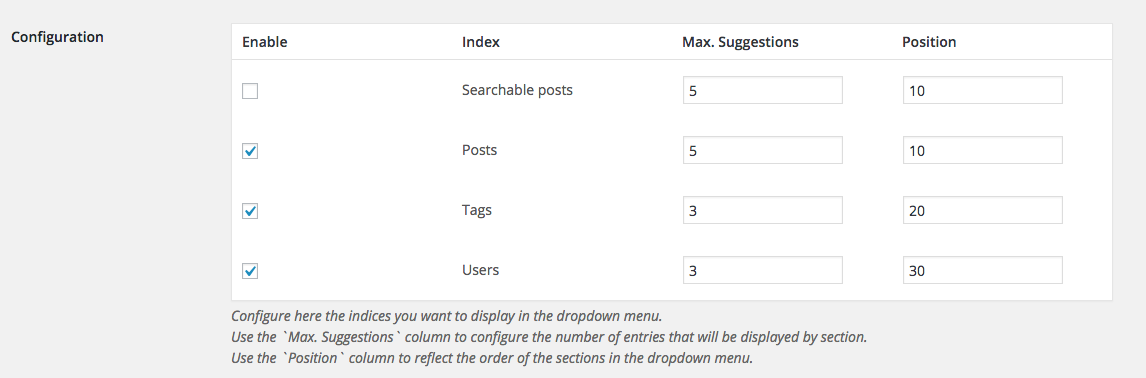
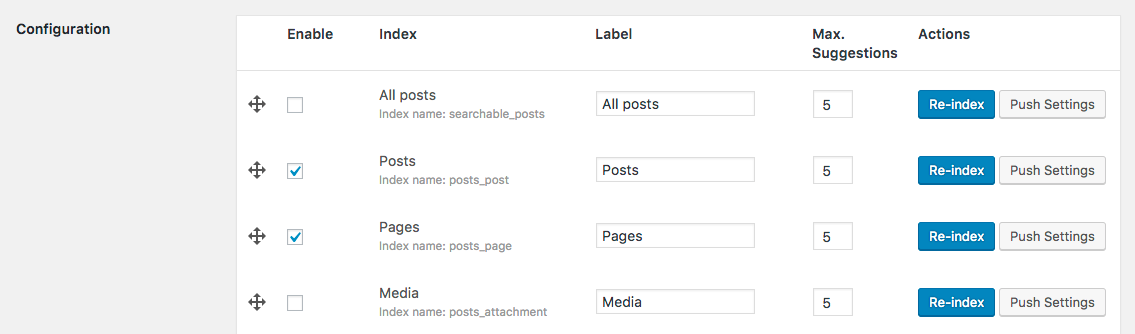
docs(getting-started): continued refactoring

diff --git a/docs/src/configuration.md b/docs/src/configuration.md
@@ -28,28 +28,26 @@ From that screen you will be able to copy/paste the following necessary keys fro
 
 Once you have filled in the 3 required keys, click on the <span class="wp-btn">Save Changes</span> button at the bottom of the form.
 
-If you provided the correct keys, a green success message will appear, otherwise you will get an error message. If you do get an error message, please ensure that you have correctly copy pasted the right key in the right WordPress admin field. Also be sure to use the copy button as showed earlier.
+Once you have correctly provided WordPress with your Algolia keys you will now see the Algolia Search menu entry has also expanded:
 
-<div class="alert alert-warning">For security reasons, the Search-Only API key should only have the `search` ACL has it will be display publicly in your html templates.</div>
-
-Once you have correctly provided WordPress with your Algolia keys you will now see that the Algolia Search menu entry has now expanded:
-
+<p class="text-center">
 ![expanded menu](img/configuration/menu-expanded.png)
+</p>
 
 
-## Autocomplete dropdown menu
+## Indexing
 
+Before you can search anything with Algolia, you need to synchronize your data.
 
+Now, let's head to the `Autocomplete` submenu where you will be able to tell WordPress what content you want to synchronize with Algolia.
 
-Now, lets head to the `Autocomplete` entry where you will be able to tell WordPress which indices you want to synchronize with Algolia.
-
-You should now be facing a list of checkboxes like:
+You should now be facing a list of elements like:
 
 ![indices form](img/configuration/indices-form.png)
 
 <div class="alert alert-warning">Please note that if you have already installed third party plugins to your WordPress installation, you might have more entries than in the above screenshot which is perfectly fine.</div>
 
-The Algolia Search plugin uses WordPress core features such as **Post Types**, **Taxonomies** or **Users** to find potential content types to index. Any plugin creating new *Post Types* or *Taxonomies* will automatically be listed here an eligible for synchronization with Algolia.
+The Algolia Search plugin uses WordPress core features such as **Custom Post Types**, **Custom Taxonomies** or **Users** to find potential content types to index. Any plugin creating new *Post Types* or *Taxonomies* will automatically be listed here an eligible for synchronization with Algolia.
 
 Let's proceed by choosing the indices you want to make searchable on your website, for example **Posts**, **Pages** and **Users**. Simply check the corresponding checkboxes and click on <span class="wp-btn">Save Changes</span>.
 
@@ -57,33 +55,7 @@ Green validation messages should confirm that the selected indices are about to 
 
 ![indexing validation messages](img/configuration/indexing-validation.png)
 
-Your data will now be pushed asynchronously behind the scenes, and it might take a few seconds. You can track what is happening by navigating to the *Logs* page of the plugin.
-
-<div class="alert alert-warning">For performances reasons, logging will only occur if `WP_DEBUG` is defined to `true`.</div>
-
-On the same page you will also see an text field called **Index name prefix** which defaults to `wp_`.
-
-![Index name prefix field](img/configuration/index-name-prefix.png)
-
-By changing this you will update all the synchronized indices prefixes. This feature comes in handy when you want for example to use a same Algolia account for staging and production.
-
-In that case you would use for example `wp_staging_` and `wp_production_` for respectively staging and production environments.
-
-<div class="alert alert-warning">Changing the index name prefix will automatically queue a move task to make existing indices adopt the new convention. No need to re-index everything after this kind of change.</div>
-
-
-## Verify Synchronization
-
-At this stage indices you selected in the [previous step](#indexing) should now be available in Algolia.
-
-If you want to make sure the synchronization has succeeded you could go to your Algolia dashboard, on the [indices page](https://www.algolia.com/explorer).
-From the dropdown near the title, you should see the 3 indices we chose to push from WordPress to Algolia.
-
-![indices dropdown](img/configuration/indices-dropdown.png)
-
-If your indices do not appear yet, you may want to check your logs. [Read more about logs here](logs.html).
-
-<div class="alert alert-info">Note that there can be more than 1 record per Post entry. To understand why, please read [our section about Indexing Schemas](index-schema.html).</div>
+Click on the <span class="wp-btn">Index now</span> button to quickly send your content to Algolia. After that everything will be kept in sync automatically.
 
 
 ## Autocomplete
@@ -93,11 +65,7 @@ First of all, here is the search experience you will get out of the box at the e
 
 ![autocomplete preview](img/configuration/autocomplete-preview.png)
 
-To enable the Autocomplete feature, navigate to the **Autocomplete** admin page from the Algolia Search admin menu entry:
-
-![autocomplete menu entry](img/configuration/autocomplete-menu.png)
-
-You should see the following:
+To enable the Autocomplete feature, tick the box above the configuration table:
 
 ![autocomplete form](img/configuration/autocomplete-form.png)
 
@@ -113,7 +81,7 @@ From here there are a couple of settings that you can customize.
 | Setting&nbsp;name         | Description                                                                                                                                                                  |
 |:--------------------------|:-----------------------------------------------------------------------------------------------------------------------------------------------------------------------------|
 | **Enable**                | Make search results for this index available through the autocomplete.                                                                                                       |
-| **Index**                 | The name of the index, this is just here for you to know what each row is about.                                                                                             |
+| **Index**                 | The type of data <br> And the name of the index name in Algolia dashboard |
 | **Max.&nbsp;Suggestions** | The maximum number of suggestions to display for this index. Only the `n` most relevant search results will be displayed for this index, and the others will be discarded.   |
 | **Position**              | Determines the display position of suggestions in relation to the other autocomplete enabled indices. The bigger the position, the lower the section will be in the display. |
 
@@ -123,17 +91,16 @@ Let's keep the default settings and enable all 3 content types for the *find-as-
 
 ## Search Page
 
-WordPress has a built-in search engine relying on SQL queries. The problem is that it does not support the features of the Algolia search engine like typo tolerance, custom ranking, and a lot more that you can check out on the https://www.algolia.com/ website.
+WordPress has a built-in search engine relying on SQL queries. The problem is that it does not support the features of the Algolia search engine such as typo tolerance, custom ranking, and a lot more that you can check out on the [www.algolia.com](https://www.algolia.com) website.
 
-This is the very reason this plugin comes with a feature that lets you override WordPress's native search feature with Algolia.
+This plugin lets you override WordPress native search with Algolia.
 
-<div class="alert alert-warning">Replacing the WordPress search feature ensures you get the same results than what you see in the *autocomplete* feature.</div>
+Replacing the WordPress search feature ensures you get the same results than what you see in the *autocomplete* feature.
 
-Once you click on the **Search Page** entry under the **Algolia Search** menu, here is what you will see:
+Once you click on the **Search Page** entry under the **Algolia Search** menu, you will be given 3 options. If you choose "Use Algolia in the backend" or "Use Algolia with Instantsearch.js", the native search will be replaced by Algolia.
 
 ![native search form](img/configuration/native-search-form.png)
 
-You have 2 options to override WordPress's default search feature:
 
 ### Use Algolia in the backend
 
@@ -145,7 +112,7 @@ With this option WordPress search will be powered by Algolia behind the scenes.
 
 ### Use Algolia with Instantsearch.js
 
-With this option WordPress search will be powered by the [instantsearch.js](https://community.algolia.com/instantsearch.js/) library. It replaces your search results page with an instant (JavaScript-based) search experience.
+With this option WordPress search will be powered by the [instantsearch.js](https://community.algolia.com/instantsearch.js/) library. It replaces your search results page with an instant search experience.
 
 <div class="alert alert-warning">Please note that the plugin is shipped with some sensible default styling rules but it could require some CSS adjustments to provide an optimal search experience.</div>
 
@@ -153,6 +120,6 @@ With this option WordPress search will be powered by the [instantsearch.js](http
 
 ## From Here On Out
 
-You want to understand more in depth what Algolia is and how you can benefit from it? Please consult our getting started: https://www.algolia.com/doc/getting-started
+You want to understand more in depth what Algolia is and how you can benefit from it? Please consult our getting started: https://www.algolia.com/doc/guides/getting-started/what-is-algolia/
 
-<div class="alert alert-warning">Struggling with something? Go to the [Q&A section](frequently-asked-questions.html).</div>
+<div class="alert alert-warning">Struggling with something? Check out the [Q&A section](frequently-asked-questions.html).</div>

diff --git a/docs/src/logs.md b/docs/src/logs.md
@@ -23,6 +23,8 @@ For that reason we introduced our custom logs like explained in the previous sec
 
 When you are unable to debug your issues with the provided logs, it probably means you have PHP exceptions that are being raised behind the scenes.
 
+<div class="alert alert-warning">For performances reasons, logging will only occur if `WP_DEBUG` is defined to `true`.</div>
+
 **To access your PHP logs you should:**
 
 1. Turn WordPress debug mode on:
@@ -36,8 +38,6 @@ When you are unable to debug your issues with the provided logs, it probably mea
 	define( 'WP_DEBUG_LOG', true );
 	// [...]
 	```
-
-	<div class="alert alert-warning">If these lines are already there, be sure they are defined to `true`.</div>
 
 2. Re-try the operations you expect to go wrong, like hitting the <span class="wp-btn">Process queue</span> button on the Indexing page of the plugin.
 3. Check what has been logged in the `wp-content/debug.log` file.
